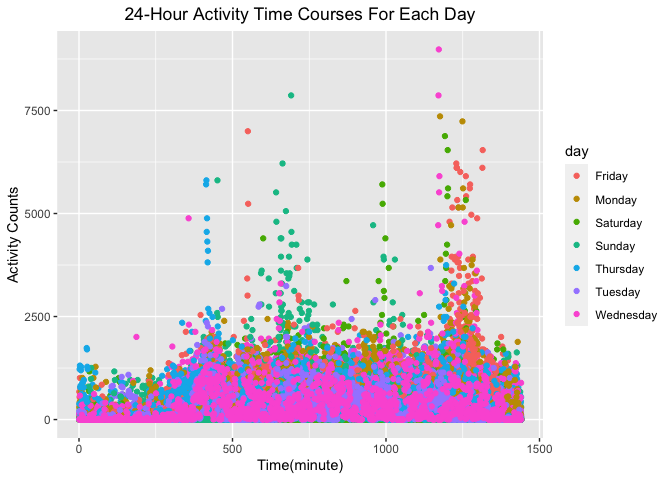
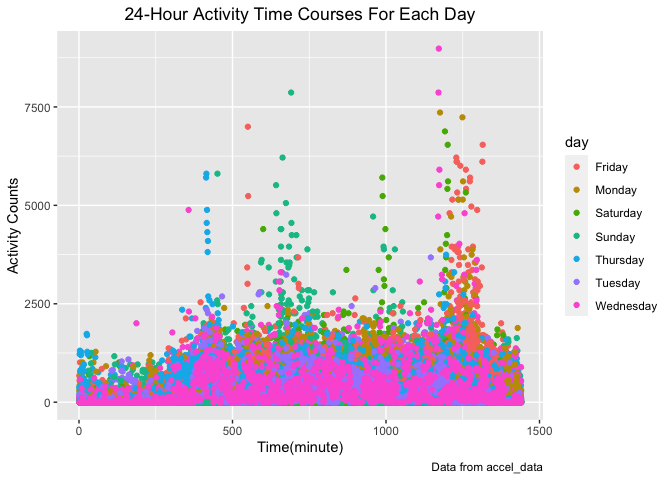
conclusion from the plot that shows the 24-hour activity time courses for each day

diff --git a/p8105_hw3_zc2610.md b/p8105_hw3_zc2610.md
@@ -237,6 +237,25 @@ acc_df %>%
 |    5 |     34 | Tuesday   |       367824.0 |
 |    5 |     35 | Wednesday |       445366.0 |
 
+``` r
+acc_df
+```
+
+    ## # A tibble: 50,400 × 6
+    ##     week day_id day    activity_minute counts weekday_or_weekend
+    ##    <int>  <int> <chr>            <int>  <dbl> <chr>             
+    ##  1     1      1 Friday               1   88.4 weekday           
+    ##  2     1      1 Friday               2   82.2 weekday           
+    ##  3     1      1 Friday               3   64.4 weekday           
+    ##  4     1      1 Friday               4   70.0 weekday           
+    ##  5     1      1 Friday               5   75.0 weekday           
+    ##  6     1      1 Friday               6   66.3 weekday           
+    ##  7     1      1 Friday               7   53.8 weekday           
+    ##  8     1      1 Friday               8   47.8 weekday           
+    ##  9     1      1 Friday               9   55.5 weekday           
+    ## 10     1      1 Friday              10   43.0 weekday           
+    ## # … with 50,390 more rows
+
 Single panel plot that shows the 24-hour activity time courses for each
 day
 
@@ -247,7 +266,8 @@ acc_df %>%
    labs(
     title = "24-Hour Activity Time Courses For Each Day",
     x = "Time(minute)",
-    y = "Activity Counts"
+    y = "Activity Counts",
+    caption = "Data from accel_data"
   ) +
    theme(plot.title = element_text(hjust = 0.5))
 ```
@@ -273,6 +293,15 @@ acc_df
     ##  9     1      1 Friday               9   55.5 weekday           
     ## 10     1      1 Friday              10   43.0 weekday           
     ## # … with 50,390 more rows
+
+Answer:
+
+1.  Tuesday,Wednesday and Friday have lower activity counts compared to
+    other days, which means these three days have more stable activity
+    counts. (especially Wednesday)
+2.  Compared to other minutes, activity counts are higher at around the
+    1250th minute, which means everyday at around 8 pm, more activity
+    counts are made.
 
 ## Problem 3
 
